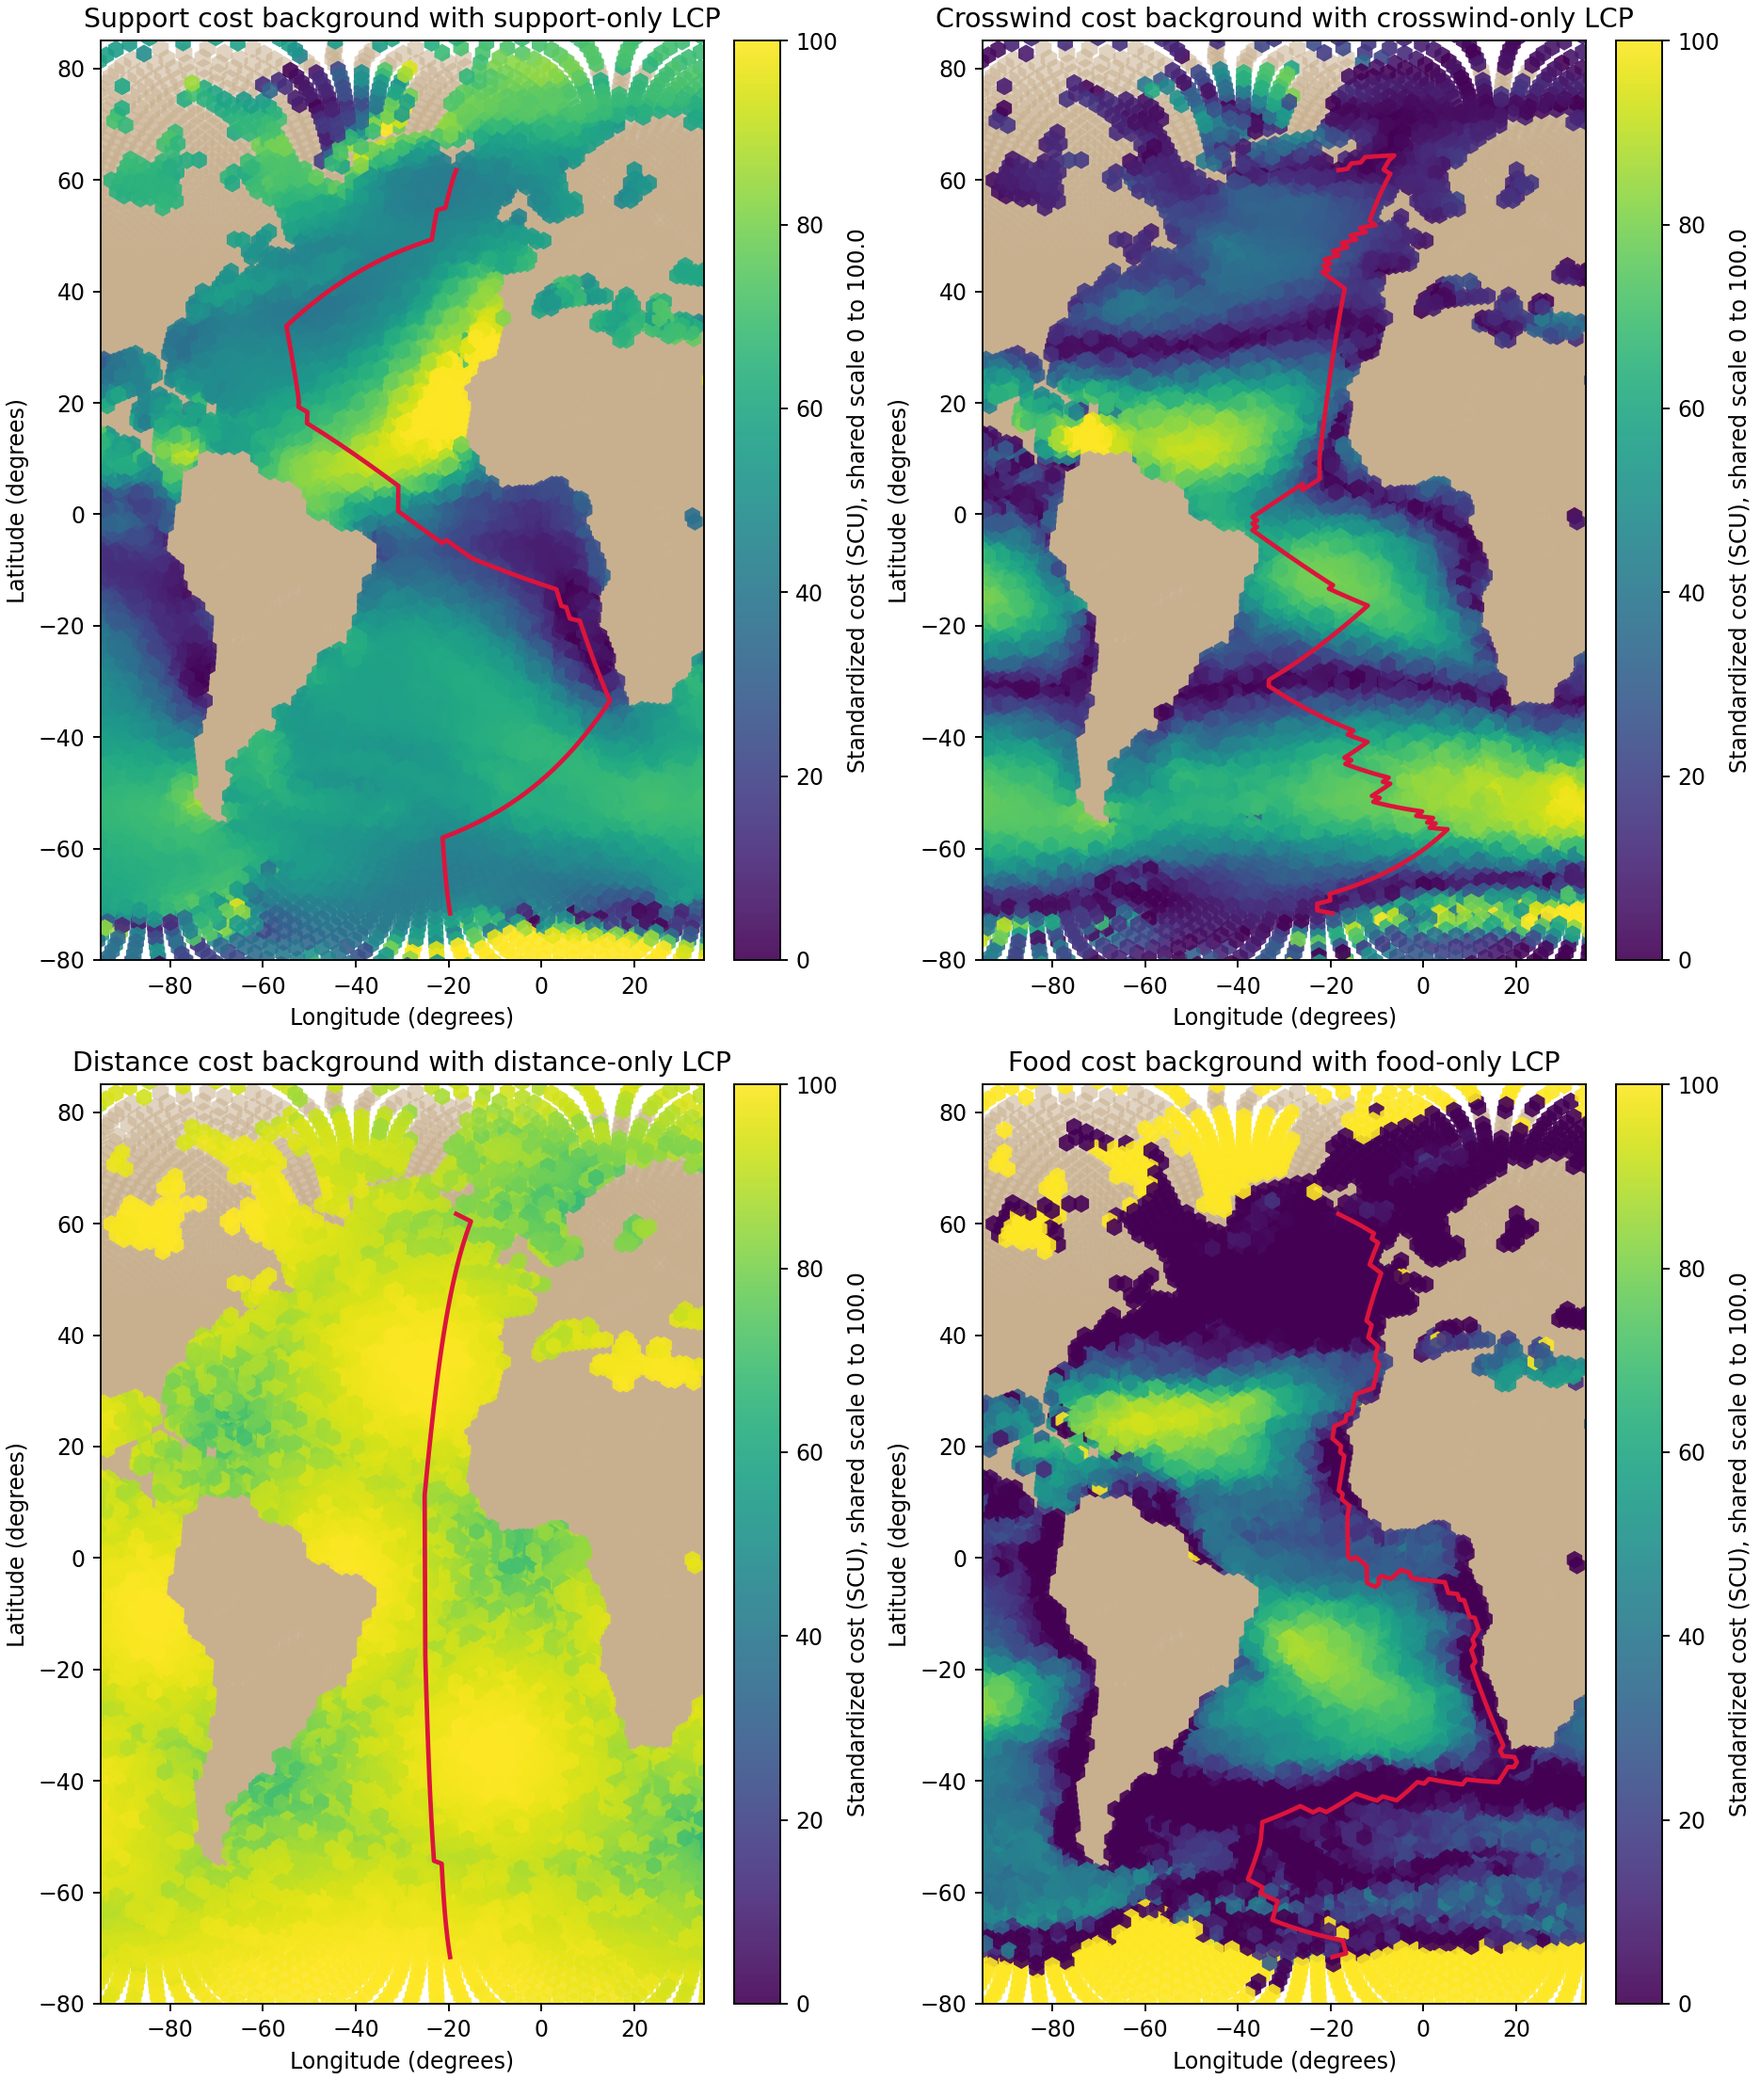
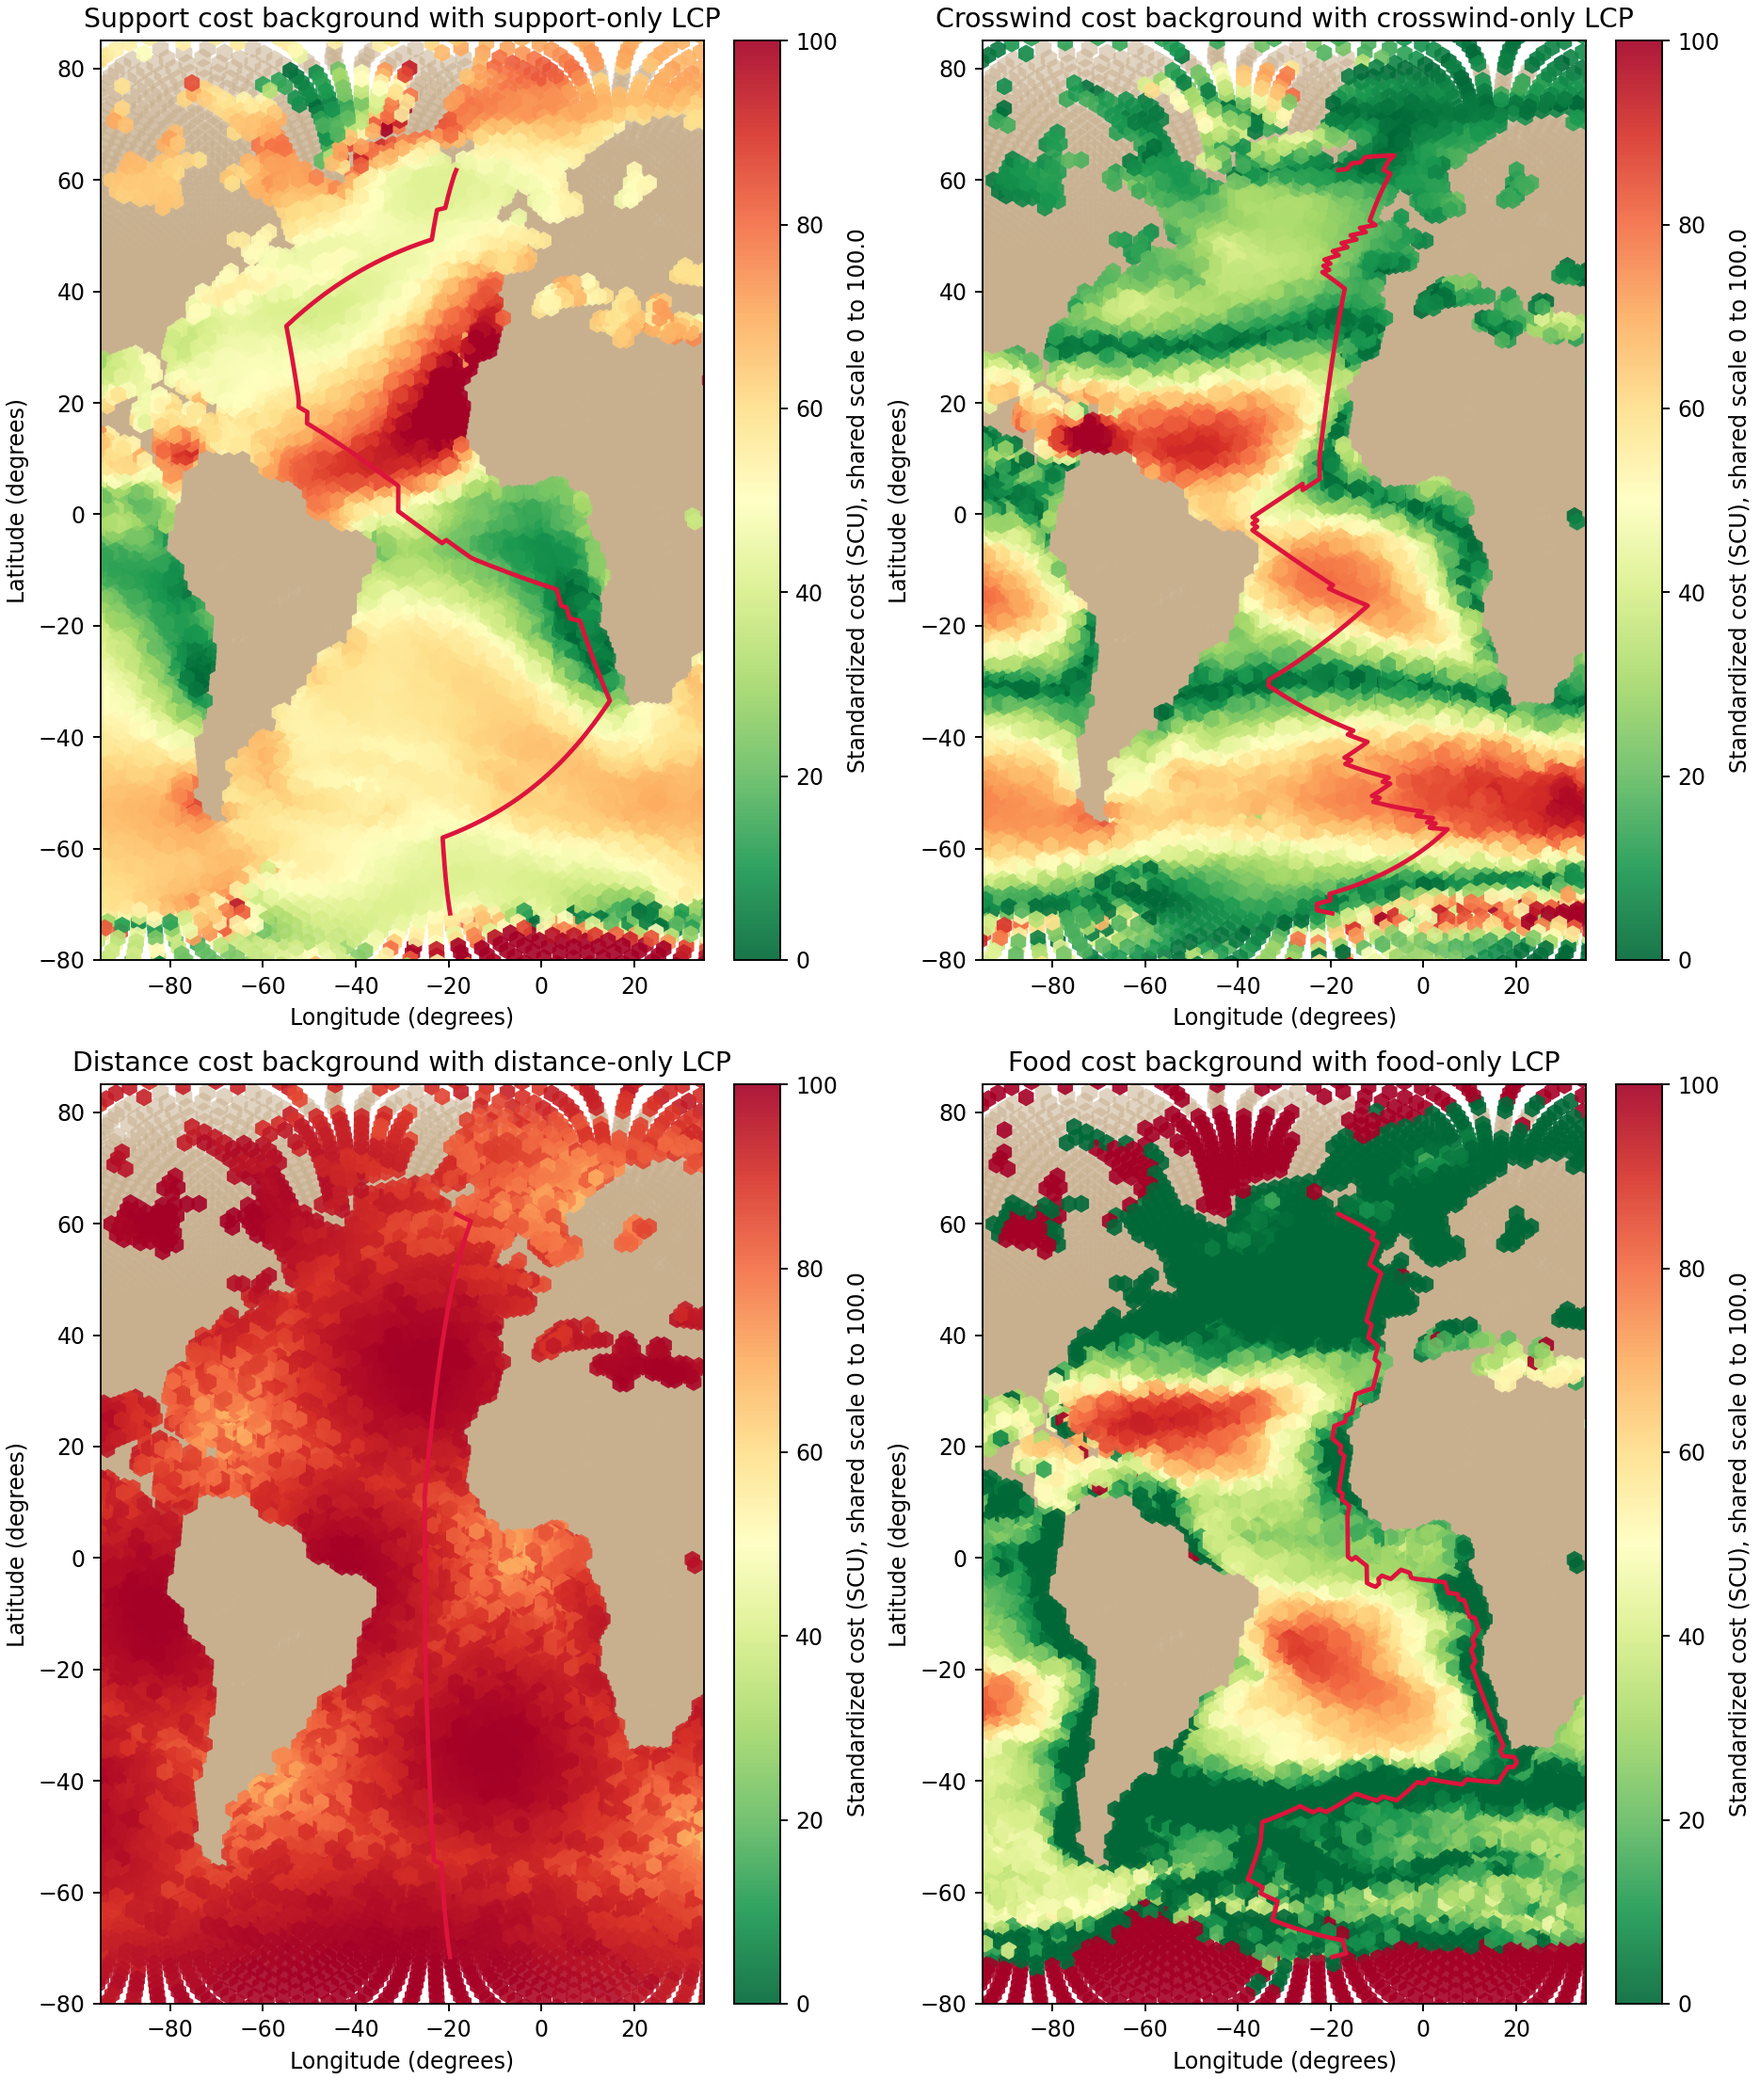
Use RdYlGn for diagnostic cost overlays

diff --git a/src/scripts/12_run_first_h3_dijkstra.py b/src/scripts/12_run_first_h3_dijkstra.py
@@ -162,7 +162,7 @@ def draw_component_map_panel(
         c=df[value_col],
         s=65,
         marker="h",
-        cmap="viridis",
+        cmap="RdYlGn_r",
         linewidths=0,
         alpha=0.9,
         vmin=vmin,
